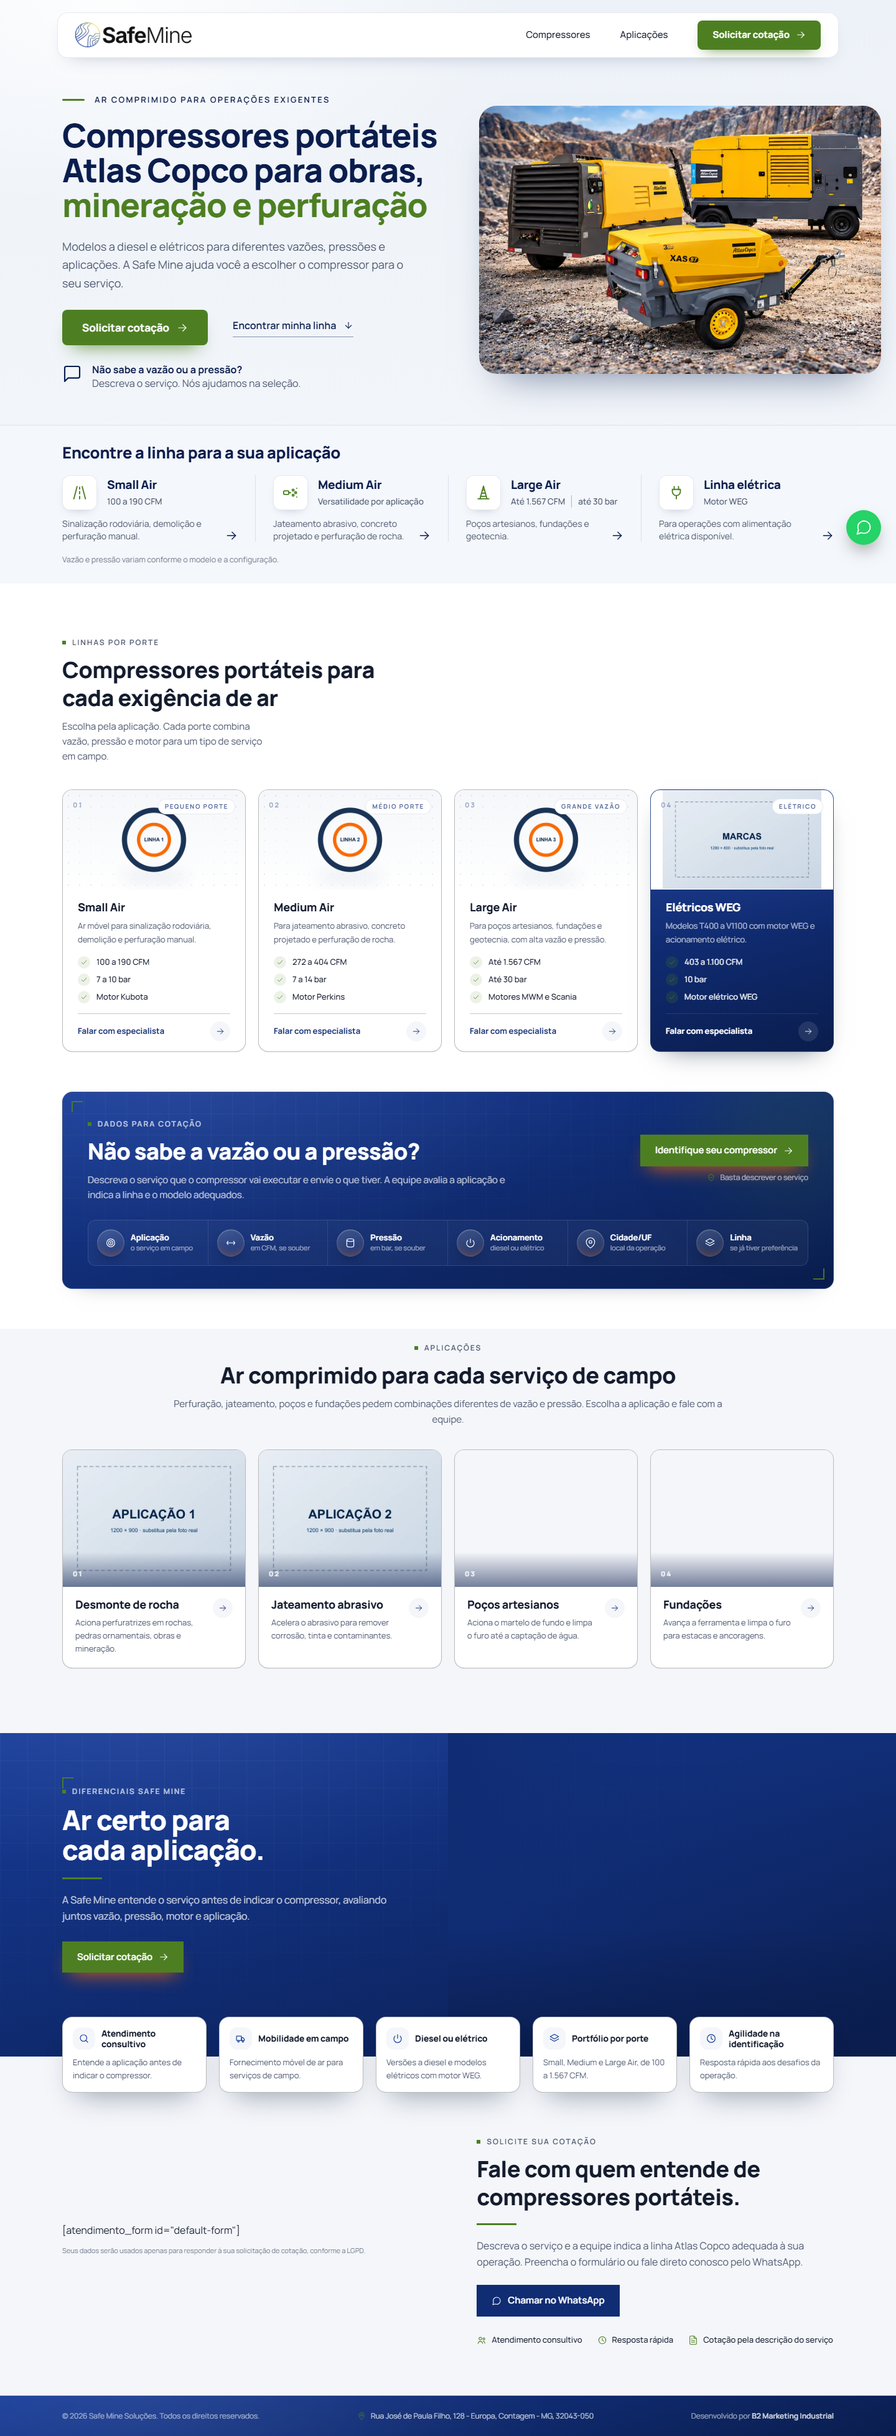
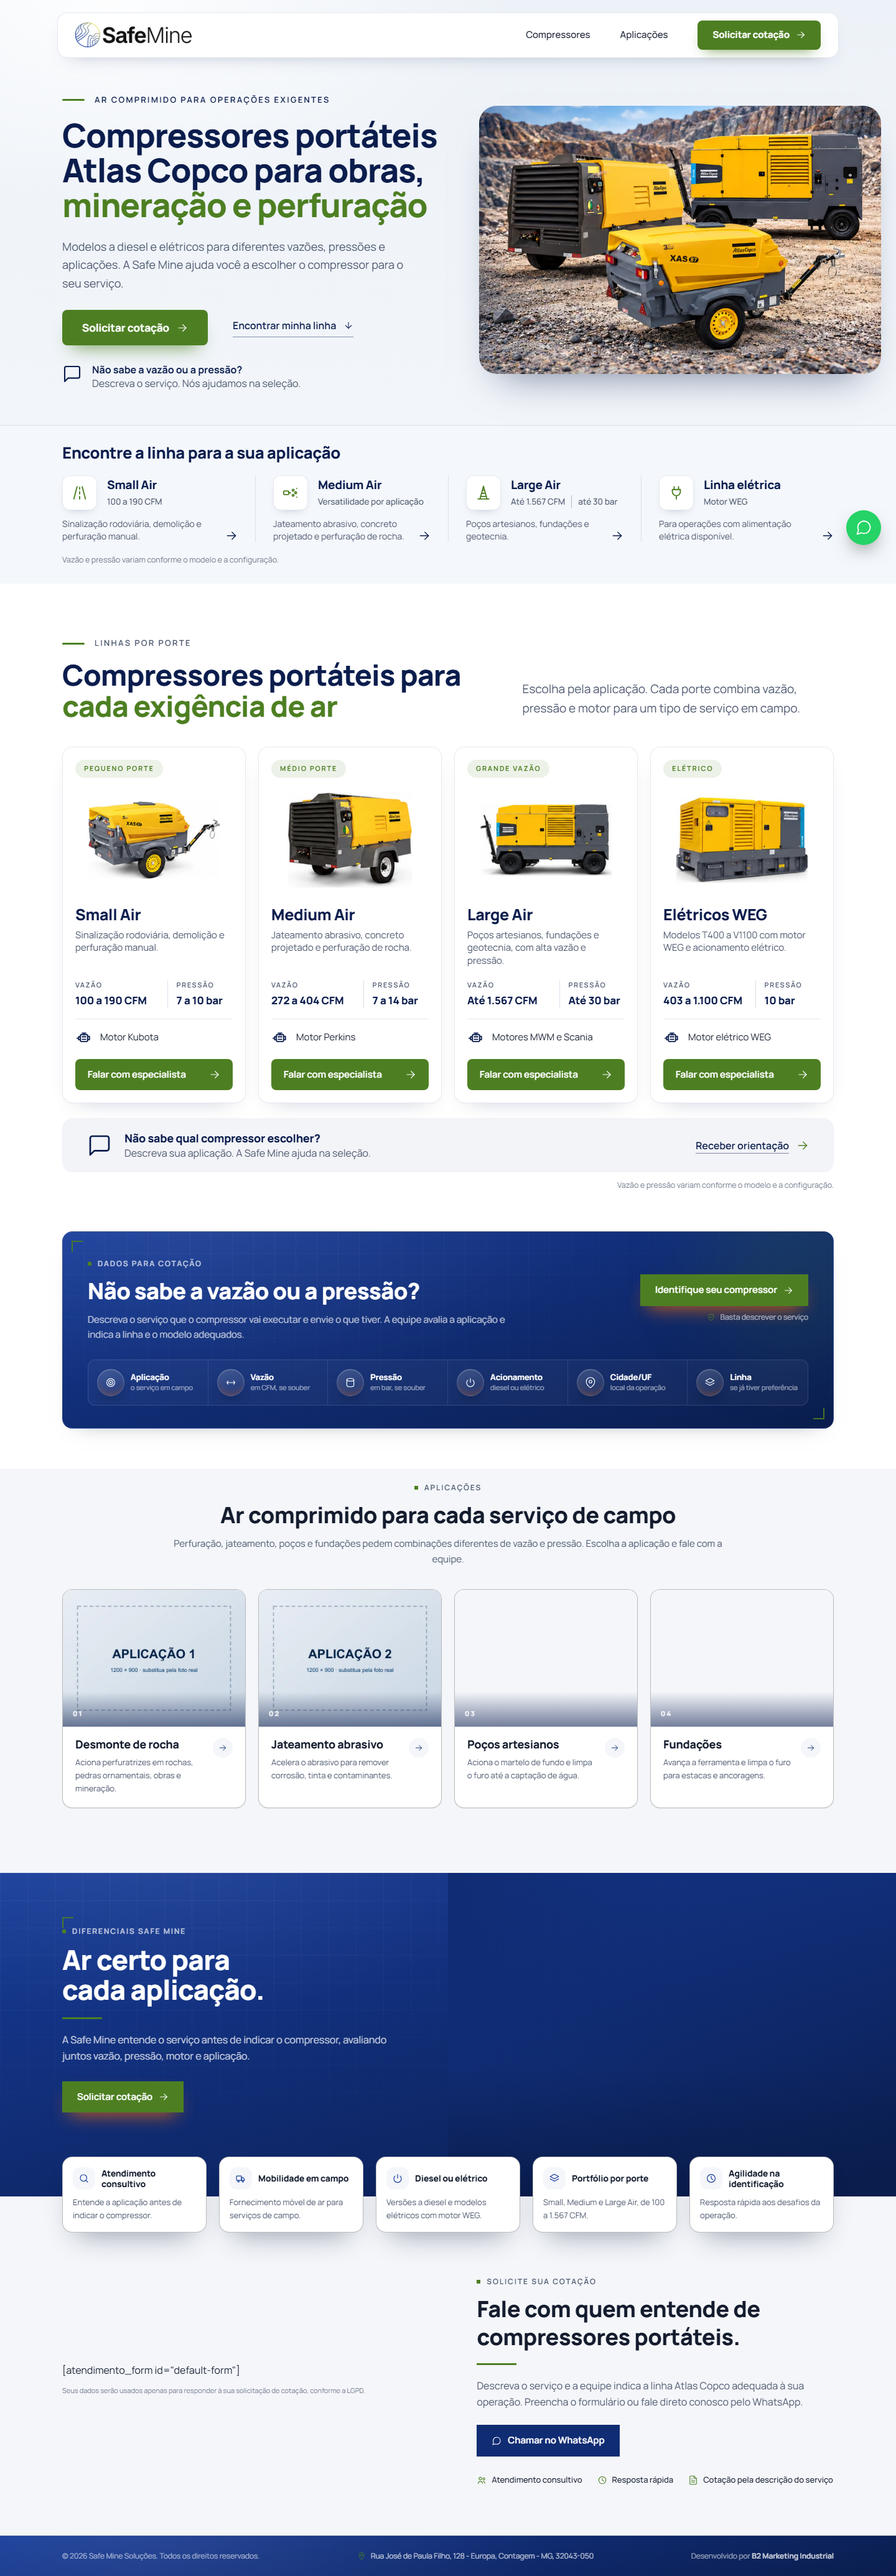
feat: seção de linhas no layout do mockup — cards claros com foto, vazão e pressão
Cabeçalho em duas colunas com "cada exigência de ar" em verde; 4 cards claros com
foto, vazão e pressão lado a lado, motor e CTA de largura total, alinhados por subgrid
a partir de 1280px; faixa "Não sabe qual compressor escolher?" (linhas-orientacao).
Fotos de produto provisórias, recortadas do mockup. Componente da biblioteca alterado
na LP — registrado em docs/BRIEFING.md.

diff --git a/src/data/sections/linhas.ts b/src/data/sections/linhas.ts
@@ -4,9 +4,12 @@
  * 3 ou 4 cards, exatamente um deles escuro — normalmente o card de marcas, que
  * fecha o grid com peso visual. Cada linha tem 3 features de 2–4 palavras.
  *
- * Aqui os cards são os portes da linha APE Atlas Copco, e o escuro é a linha elétrica
- * WEG. As quatro fotos seguem como placeholder: a ficha declara o slot `linhas` em
- * `assets.pendentes`.
+ * Aqui os cards são os portes da linha APE Atlas Copco. O layout desta LP segue o mockup
+ * de 29/10 (componente alterado — ver docs/BRIEFING.md): os 4 cards são claros, e `dark`
+ * fica só para o contrato da biblioteca. `features` é posicional: vazão, pressão, motor.
+ *
+ * Fotos provisórias, recortadas do mockup (~330 px de largura útil): o slot `linhas`
+ * segue em `assets.pendentes` até chegarem os originais 800×600.
  */
 import type { Photo } from '@data/types'
 
@@ -29,13 +32,23 @@ export interface ProductLine {
 export const productLines = {
   eyebrow: 'Linhas por porte',
   title: 'Compressores portáteis para cada exigência de ar',
+  /** Trecho do título em verde, na segunda linha. */
+  titleHighlight: 'cada exigência de ar',
   text: 'Escolha pela aplicação. Cada porte combina vazão, pressão e motor para um tipo de serviço em campo.',
+  /** Rótulos das duas primeiras features de cada card. */
+  specLabels: ['Vazão', 'Pressão'],
+  help: {
+    title: 'Não sabe qual compressor escolher?',
+    text: 'Descreva sua aplicação. A Safe Mine ajuda na seleção.',
+    cta: 'Receber orientação',
+  },
+  note: 'Vazão e pressão variam conforme o modelo e a configuração.',
   items: [
     {
       id: 'small-air',
       tag: 'Pequeno porte',
       title: 'Small Air',
-      description: 'Ar móvel para sinalização rodoviária, demolição e perfuração manual.',
+      description: 'Sinalização rodoviária, demolição e perfuração manual.',
       photo: { src: linha1, alt: 'Compressor portátil Small Air' },
       features: ['100 a 190 CFM', '7 a 10 bar', 'Motor Kubota'],
       dark: false,
@@ -44,7 +57,7 @@ export const productLines = {
       id: 'medium-air',
       tag: 'Médio porte',
       title: 'Medium Air',
-      description: 'Para jateamento abrasivo, concreto projetado e perfuração de rocha.',
+      description: 'Jateamento abrasivo, concreto projetado e perfuração de rocha.',
       photo: { src: linha2, alt: 'Compressor portátil Medium Air' },
       features: ['272 a 404 CFM', '7 a 14 bar', 'Motor Perkins'],
       dark: false,
@@ -53,7 +66,7 @@ export const productLines = {
       id: 'large-air',
       tag: 'Grande vazão',
       title: 'Large Air',
-      description: 'Para poços artesianos, fundações e geotecnia, com alta vazão e pressão.',
+      description: 'Poços artesianos, fundações e geotecnia, com alta vazão e pressão.',
       photo: { src: linha3, alt: 'Compressor portátil Large Air' },
       features: ['Até 1.567 CFM', 'Até 30 bar', 'Motores MWM e Scania'],
       dark: false,
@@ -71,7 +84,11 @@ export const productLines = {
 } as const satisfies {
   eyebrow: string
   title: string
+  titleHighlight: string
   text: string
+  specLabels: readonly [string, string]
+  help: { title: string; text: string; cta: string }
+  note: string
   items:
     | readonly [ProductLine, ProductLine, ProductLine]
     | readonly [ProductLine, ProductLine, ProductLine, ProductLine]

diff --git a/src/data/icons.ts b/src/data/icons.ts
@@ -97,6 +97,8 @@ export const iconPaths = {
   drill:
     '<path d="M12 3 7.2 20.5M12 3l4.8 17.5"/><path d="M10.6 8.2h2.8M9.4 12.6h5.2M8.2 17h7.6"/><path d="M4.5 20.5h15"/>',
   plug: '<path d="M9 3.5v4M15 3.5v4"/><path d="M6.5 7.5h11v3a5.5 5.5 0 0 1-11 0v-3Z"/><path d="M12 16v4.5"/>',
+  engine:
+    '<path d="M9.5 5.5h5M12 5.5v2"/><rect x="7" y="7.5" width="10" height="9.5" rx="1.5"/><path d="M7 10.5H4.5v4H7M17 10h2.5v4.5H17"/><path d="M2.5 12.5h2M9.5 10.5h5M9.5 14h5"/>',
 } as const satisfies Record<string, string>
 
 export type IconName = keyof typeof iconPaths

diff --git a/docs/BRIEFING.md b/docs/BRIEFING.md
@@ -106,15 +106,15 @@ Derivada em: 29/10/2026 · comando aplicado: `npm run compose -- linhas identifi
 | Logo da barra | `src/assets/marca-safe-mine.png` | 841×180, fundo transparente | recortado do logo do site da Safe Mine (8000×2081)                    |
 | Foto do hero  | `src/assets/heroBg.png`          | 1020×721 (card)             | recorte do banner entregue em 29/10 com o mockup                      |
 
-| Asset                       | Arquivo esperado                             | Especificação                 | Status                                     |
-| --------------------------- | -------------------------------------------- | ----------------------------- | ------------------------------------------ |
-| Small Air                   | `src/assets/linhas/linha-1.png`              | PNG 800×600 recortado         | **pendente**                               |
-| Medium Air                  | `src/assets/linhas/linha-2.png`              | PNG 800×600 recortado         | **pendente**                               |
-| Large Air                   | `src/assets/linhas/linha-3.png`              | PNG 800×600 recortado         | **pendente**                               |
-| Elétricos WEG (card escuro) | `src/assets/linhas/marcas.png`               | 1280×800, fundo branco        | **pendente**                               |
-| Aplicações 1–4              | `src/assets/aplicacoes/aplicacao-{1..4}.png` | 1200×900 (4:3)                | **pendentes** — direito de uso a confirmar |
-| Cenário dos diferenciais    | `src/assets/diferenciais/cenario.jpg`        | 1600×900                      | **pendente**                               |
-| Pessoa dos diferenciais     | `src/assets/diferenciais/pessoa.png`         | 1220×1000, fundo transparente | **pendente**                               |
+| Asset                    | Arquivo esperado                             | Especificação                 | Status                                     |
+| ------------------------ | -------------------------------------------- | ----------------------------- | ------------------------------------------ |
+| Small Air                | `src/assets/linhas/linha-1.png`              | PNG 800×600 recortado         | provisória — recorte do mockup             |
+| Medium Air               | `src/assets/linhas/linha-2.png`              | PNG 800×600 recortado         | provisória — recorte do mockup             |
+| Large Air                | `src/assets/linhas/linha-3.png`              | PNG 800×600 recortado         | provisória — recorte do mockup             |
+| Elétricos WEG            | `src/assets/linhas/marcas.png`               | 800×600, fundo branco         | provisória — recorte do mockup             |
+| Aplicações 1–4           | `src/assets/aplicacoes/aplicacao-{1..4}.png` | 1200×900 (4:3)                | **pendentes** — direito de uso a confirmar |
+| Cenário dos diferenciais | `src/assets/diferenciais/cenario.jpg`        | 1600×900                      | **pendente**                               |
+| Pessoa dos diferenciais  | `src/assets/diferenciais/pessoa.png`         | 1220×1000, fundo transparente | **pendente**                               |
 
 As fotos de produto e de aplicação citadas no briefing estão no PPT "Atlas Copco – APE", que não está nesta máquina; a maioria dos recortes ficava abaixo da resolução pedida.
 
@@ -145,6 +145,15 @@ Em 29/10/2026 o topo da página foi refeito a partir do mockup enviado pela B2 (
 - Os 3 pontos do hero ficam na ficha (o validador exige), mas a página mostra no lugar a faixa das 4 linhas.
 
 Se este topo virar padrão, a mudança é no starter (template + `check-lp.mjs`), com versão nova.
+
+### Seção "Linhas por porte"
+
+Também em 29/10/2026, a seção `linhas` passou ao layout do mockup seguinte: cabeçalho em duas colunas com "cada exigência de ar" em verde, 4 cards claros (sem o card escuro da biblioteca) com foto, vazão e pressão lado a lado, motor e botão "Falar com especialista" de largura total, e a faixa "Não sabe qual compressor escolher?" com o CTA `linhas-orientacao`. A partir de 1280 px os cards são subgrid, para título, dados e motor ficarem alinhados; abaixo disso, 2 colunas.
+
+- O componente `src/components/sections/ProductLines.astro` foi alterado dentro da LP. **`npm run compose` o sobrescreve com o da biblioteca** — guarde-o antes de recompor, ou leve o layout para a biblioteca como seção nova.
+- Os dados seguem o contrato da biblioteca: `dark: true` continua no card elétrico (o contrato exige um), mas o componente não o usa; `features` é posicional (vazão, pressão, motor). Campos novos em `linhas.ts`: `titleHighlight`, `specLabels`, `help`, `note`.
+- As descrições dos cards foram encurtadas como no mockup (sem "Ar móvel para" / "Para"), na ficha e nos dados.
+- **Fotos provisórias**: as 4 fotos de produto foram recortadas do próprio mockup (cerca de 330 px de largura útil, ampliadas para 800×600 com fundo branco). Servem para a revisão; o slot `linhas` continua em `assets.pendentes` até chegarem os originais.
 
 ## Dados não aplicados
 

diff --git a/docs/FICHA-LP.md b/docs/FICHA-LP.md
@@ -155,21 +155,21 @@ blocos:
       - id: small-air
         tag: Pequeno porte
         title: Small Air
-        description: Ar móvel para sinalização rodoviária, demolição e perfuração manual.
+        description: Sinalização rodoviária, demolição e perfuração manual.
         features: [100 a 190 CFM, 7 a 10 bar, Motor Kubota]
         photo: Compressor portátil Small Air
         dark: false
       - id: medium-air
         tag: Médio porte
         title: Medium Air
-        description: Para jateamento abrasivo, concreto projetado e perfuração de rocha.
+        description: Jateamento abrasivo, concreto projetado e perfuração de rocha.
         features: [272 a 404 CFM, 7 a 14 bar, Motor Perkins]
         photo: Compressor portátil Medium Air
         dark: false
       - id: large-air
         tag: Grande vazão
         title: Large Air
-        description: Para poços artesianos, fundações e geotecnia, com alta vazão e pressão.
+        description: Poços artesianos, fundações e geotecnia, com alta vazão e pressão.
         features: [Até 1.567 CFM, Até 30 bar, Motores MWM e Scania]
         photo: Compressor portátil Large Air
         dark: false
